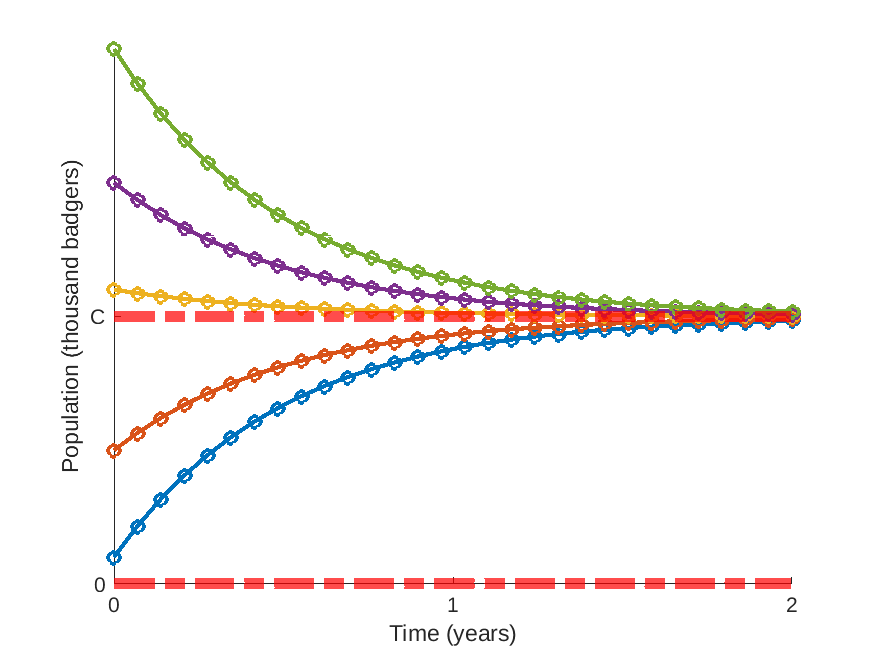
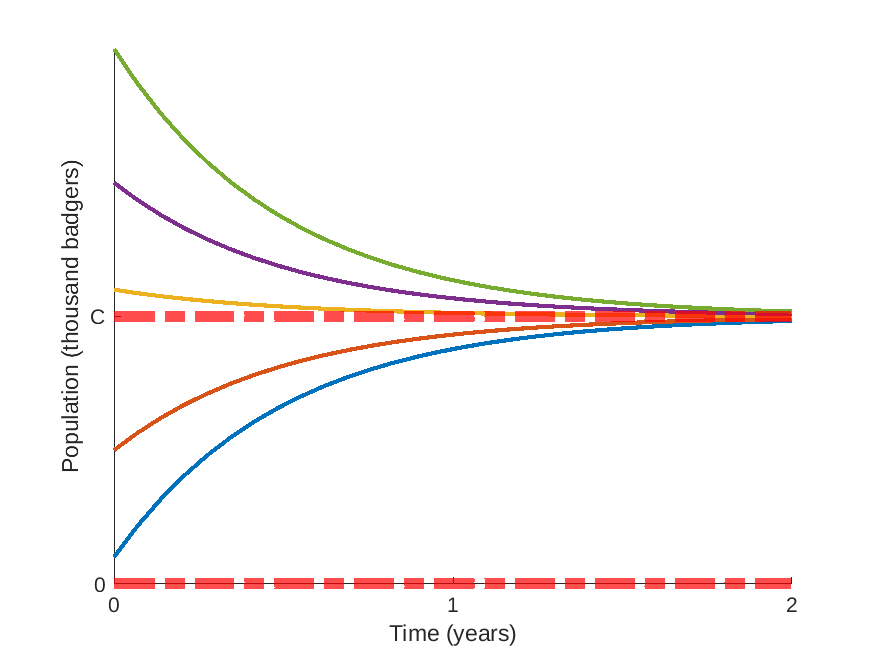
updated

diff --git a/_topics/matlab/topic_004_autonomous.m b/_topics/matlab/topic_004_autonomous.m
@@ -18,7 +18,7 @@ inits = [0.1,0.5,1.1,1.5,2.0];  % starting points
 hold on
 for y0 = inits
   y = C + exp(-k*t/C)*(y0-C);
-  plot(t,y,'o-','Linewidth',2)
+  plot(t,y,'Linewidth',2)
 end
 
 xlim([xmin,xmax])
